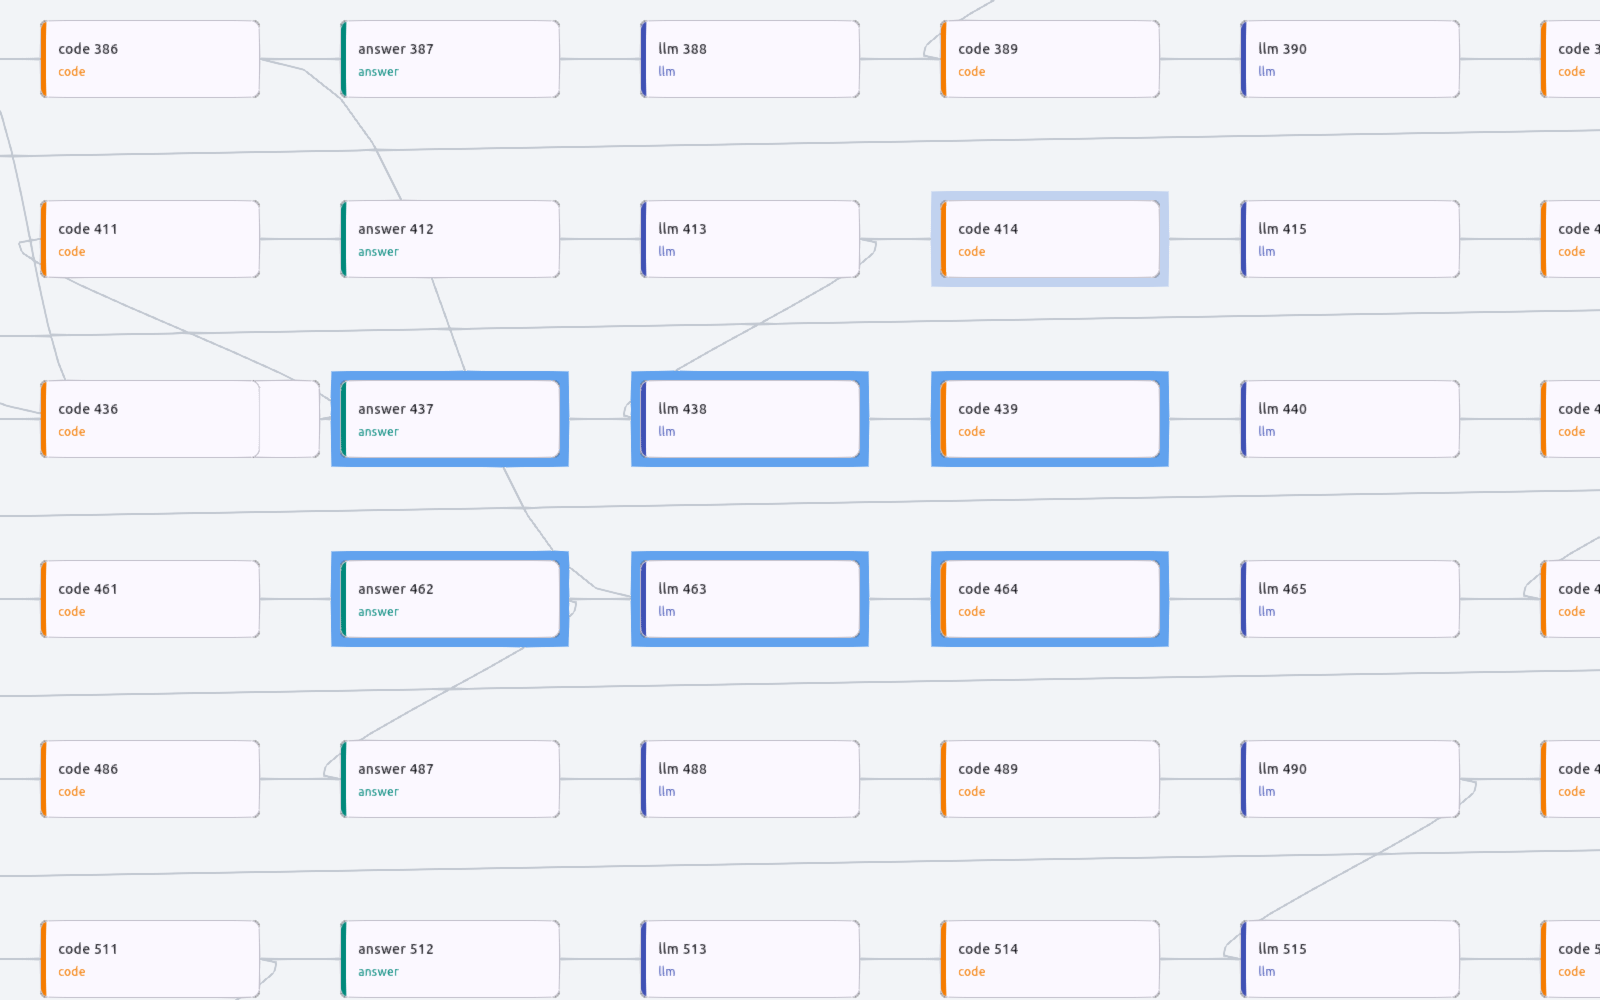
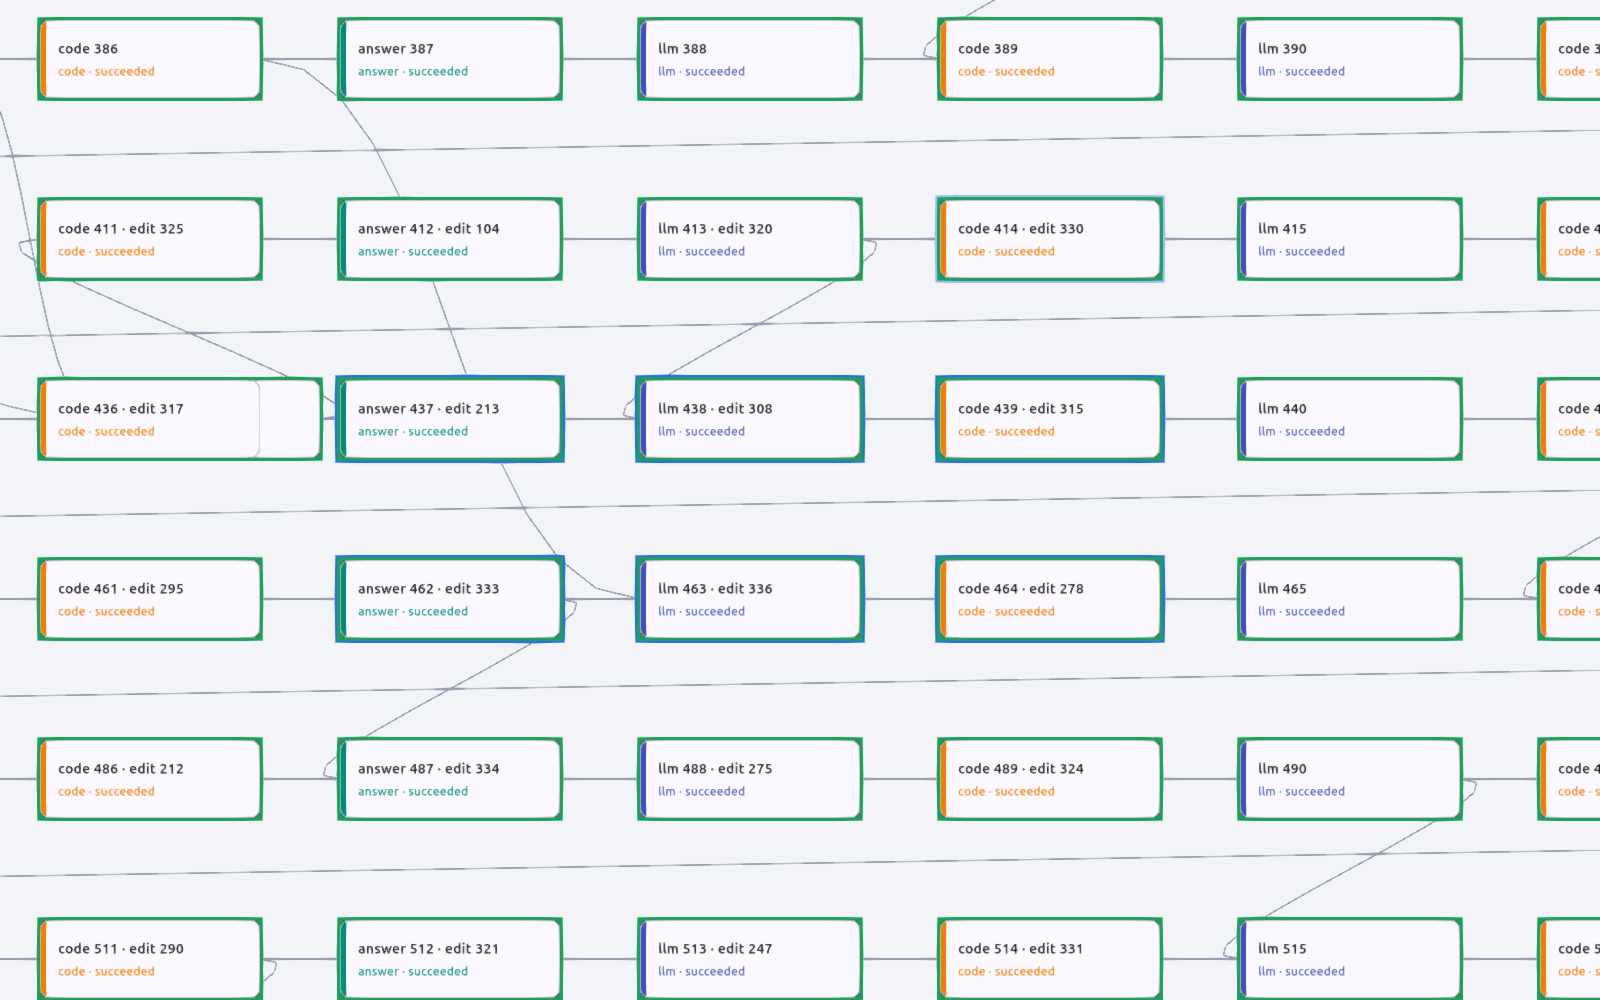
Canvas spike: exact colours, constant edge width, automatic sharpening, type card before overviews
Linear tone mapping with sRGB-converted colours; edges keep 1.5 screen pixels;
on-screen cards are recaptured at the zoom's density at rest without a flash
(1x to 2x: sharp in 197 ms); placeholders show the node type's card until the
card's overview arrives; thinner status and selection frames.

diff --git a/spikes/scene_canvas/lib/main.dart b/spikes/scene_canvas/lib/main.dart
@@ -226,7 +226,7 @@ vm.Vector3 toWorld(Offset p, [double z = 0]) => vm.Vector3(p.dx, -p.dy, -z);
 /// The status frame: a quad a few pixels larger than the card, drawn behind it, so its colour shows as a border.
 Geometry? _statusQuad;
 Geometry statusQuad() => _statusQuad ??= () {
-  const w = kNodeW / 2 + 5, h = kNodeH / 2 + 5;
+  const w = kNodeW / 2 + 3, h = kNodeH / 2 + 3;
   return MeshGeometry.fromArrays(
     positions: Float32List.fromList([w, -h, 0, -w, -h, 0, -w, h, 0, w, h, 0]),
     texCoords: Float32List.fromList([1, 1, 0, 1, 0, 0, 1, 0]),
@@ -237,13 +237,19 @@ Geometry statusQuad() => _statusQuad ??= () {
 /// The selection/hover frame: larger than the status frame, so both show when a running node is selected.
 Geometry? _highlightQuad;
 Geometry highlightQuad() => _highlightQuad ??= () {
-  const w = kNodeW / 2 + 9, h = kNodeH / 2 + 9;
+  const w = kNodeW / 2 + 5, h = kNodeH / 2 + 5;
   return MeshGeometry.fromArrays(
     positions: Float32List.fromList([w, -h, 0, -w, -h, 0, -w, h, 0, w, h, 0]),
     texCoords: Float32List.fromList([1, 1, 0, 1, 0, 0, 1, 0]),
     indices: [0, 1, 3, 3, 1, 2],
   );
 }();
+
+/// A screen colour (sRGB) as the scene's linear colour, so it reaches the screen unchanged (linear tone mapping).
+vm.Vector4 srgb(double r, double g, double b) {
+  double lin(double c) => c <= 0.04045 ? c / 12.92 : pow((c + 0.055) / 1.055, 2.4).toDouble();
+  return vm.Vector4(lin(r), lin(g), lin(b), 1);
+}
 
 const statusColors = {'running': Color(0xFF2F6FED), 'succeeded': Color(0xFF1E9E5A), 'failed': Color(0xFFD93A3A)};
 
@@ -320,7 +326,7 @@ class SceneCanvasState extends State<SceneCanvas> with CanvasHandle {
       final material = UnlitMaterial()
         ..alphaMode = AlphaMode.blend
         ..displayReferred = true
-        ..baseColorFactor = vm.Vector4(0.97, 0.96, 1.0, 1);
+        ..baseColorFactor = srgb(0.97, 0.96, 1.0);
       meshes[t] = InstancedMesh(geometry: cardQuad(), material: material, sortTransparentInstances: false);
       final host = Node();
       late final WidgetComponent c;
@@ -340,6 +346,14 @@ class SceneCanvasState extends State<SceneCanvas> with CanvasHandle {
           material
             ..baseColorTexture = GpuTextureSource(texture)
             ..baseColorFactor = vm.Vector4(1, 1, 1, 1);
+          // Until a card has its own overview, its placeholder shows its type's card.
+          for (var i = 0; i < g.nodes.length; i++) {
+            if (g.nodes[i].type == t && !hasOverview[i]) {
+              placeholders[i]
+                ..baseColorTexture = GpuTextureSource(texture)
+                ..baseColorFactor = vm.Vector4(1, 1, 1, 1);
+            }
+          }
           SchedulerBinding.instance.addPostFrameCallback((_) => scene.remove(host));
         },
       );
@@ -386,10 +400,12 @@ class SceneCanvasState extends State<SceneCanvas> with CanvasHandle {
     super.initState();
     Scene.initializeStaticResources().then((_) {
       if (!mounted) return;
-      edgeMaterial = UnlitMaterial()..baseColorFactor = vm.Vector4(0.58, 0.62, 0.68, 1);
+      edgeMaterial = UnlitMaterial()..baseColorFactor = srgb(0.58, 0.62, 0.68);
       if (kAA.isNotEmpty) scene.antiAliasingMode = AntiAliasingMode.values.byName(kAA);
-      placeholderMaterial = UnlitMaterial()..baseColorFactor = vm.Vector4(0.97, 0.96, 1.0, 1);
-      statusColorValues = {for (final e in statusColors.entries) e.key: vm.Vector4(e.value.r, e.value.g, e.value.b, 1)};
+      // A flat 2D canvas: colours pass through unchanged (no filmic curve on status and selection colours).
+      scene.toneMapping = ToneMappingMode.linear;
+      placeholderMaterial = UnlitMaterial()..baseColorFactor = srgb(0.97, 0.96, 1.0);
+      statusColorValues = {for (final e in statusColors.entries) e.key: srgb(e.value.r, e.value.g, e.value.b)};
       // All cards lie in one plane: no per-frame depth sort of the instances.
       statusMesh = InstancedMesh(
         geometry: statusQuad(),
@@ -424,7 +440,7 @@ class SceneCanvasState extends State<SceneCanvas> with CanvasHandle {
           // Stands in for the card until (and while not) it has a capture; just behind where the capture draws.
           final m = kOverview
               ? (UnlitMaterial()
-                  ..baseColorFactor = vm.Vector4(0.97, 0.96, 1.0, 1)
+                  ..baseColorFactor = srgb(0.97, 0.96, 1.0)
                   ..alphaMode = AlphaMode.blend
                   ..displayReferred = true)
               : placeholderMaterial;
@@ -532,7 +548,32 @@ class SceneCanvasState extends State<SceneCanvas> with CanvasHandle {
     maxAttached = max(maxAttached, ++attached);
   }
 
+  /// Replaces card [i]'s capture with one at [pixelRatio]; the old one stays until the new one has landed.
+  Future<void> _upgrade(int i, double pixelRatio) {
+    final old = comps[i]!, c = _component(i, pixelRatio), done = Completer<void>();
+    replaced[i] = old;
+    void landed() {
+      if (c.controller.texture == null) return;
+      c.controller.removeListener(landed);
+      if (identical(replaced[i], old)) replaced.remove(i);
+      if (old.isAttached) cards[i].removeComponent(old);
+      if (!done.isCompleted) done.complete();
+    }
+
+    c.controller.addListener(landed);
+    cards[i].addComponent(c);
+    comps[i] = c;
+    pixelRatios[i] = pixelRatio;
+    attachedTotal++;
+    return done.future;
+  }
+
+  /// Captures being replaced by [_upgrade], kept until the new one lands.
+  final replaced = <int, WidgetComponent>{};
+
   void _detach(int i) {
+    final old = replaced.remove(i);
+    if (old != null && old.isAttached) cards[i].removeComponent(old);
     attachedSet.remove(i);
     cards[i].removeComponent(comps[i]!);
     comps[i] = null;
@@ -677,6 +718,7 @@ class SceneCanvasState extends State<SceneCanvas> with CanvasHandle {
 
   /// Keeps a WidgetComponent on the cards within half a viewport of the view and drops those beyond a whole one.
   void _residency() {
+    _edgeWidths();
     if (!kCull || !widget.withCards || viewport.isEmpty) return;
     final v = widget.view;
     // With overviews every card already shows real content, so capture work waits until the view rests.
@@ -731,7 +773,18 @@ class SceneCanvasState extends State<SceneCanvas> with CanvasHandle {
         }
       }
     }
-    settled = budget > 0 && releases > 0;
+    // At rest, on-screen cards captured below the zoom's density are recaptured (a few per frame, no flash).
+    var sharpens = 8;
+    if (!viewMoving) {
+      for (final i in [...attachedSet]) {
+        if (sharpens <= 0) break;
+        if (pixelRatios[i] < density && view.overlaps(g.nodes[i].rect)) {
+          _upgrade(i, density);
+          sharpens--;
+        }
+      }
+    }
+    settled = budget > 0 && releases > 0 && sharpens > 0;
     settledAt = now;
     if (initialTarget < 0) {
       initialTarget = first;
@@ -760,11 +813,27 @@ class SceneCanvasState extends State<SceneCanvas> with CanvasHandle {
     final data = _segments(edges);
     if (data.isEmpty || !kEdges) return null;
     // Edges sit behind the cards.
-    return Node(mesh: Mesh(LineSegmentsGeometry(LineSegmentData(positions: data), width: 2), edgeMaterial))
-      ..position = toWorld(Offset.zero, -1);
+    final geometry = LineSegmentsGeometry(LineSegmentData(positions: data), width: edgeWidthPx / widget.view.scale);
+    edgeGeometries.add(geometry);
+    return Node(mesh: Mesh(geometry, edgeMaterial))..position = toWorld(Offset.zero, -1);
+  }
+
+  // Edges keep a constant width on screen: their world width follows the zoom.
+  static const edgeWidthPx = 1.5;
+  final edgeGeometries = <LineSegmentsGeometry>[];
+  double edgeWidthScale = 0;
+
+  void _edgeWidths() {
+    final scale = widget.view.scale;
+    if (scale == edgeWidthScale) return;
+    edgeWidthScale = scale;
+    for (final geometry in edgeGeometries) {
+      geometry.width = edgeWidthPx / scale;
+    }
   }
 
   void _rebuildEdges() {
+    edgeGeometries.clear();
     for (final n in [staticEdges, liveEdges]) {
       if (n != null) scene.remove(n);
     }
@@ -833,7 +902,10 @@ class SceneCanvasState extends State<SceneCanvas> with CanvasHandle {
       _placeNode(i);
     }
     // Only the moving nodes' edges are rebuilt per frame.
-    if (liveEdges != null) scene.remove(liveEdges!);
+    if (liveEdges != null) {
+      scene.remove(liveEdges!);
+      edgeGeometries.remove((liveEdges!.mesh!.primitives.first.geometry));
+    }
     liveEdges = _edgeNode([for (final k in liveEdgeIds) g.edges[k]]);
     if (liveEdges != null) scene.add(liveEdges!);
   }
@@ -865,8 +937,8 @@ class SceneCanvasState extends State<SceneCanvas> with CanvasHandle {
   final selected = <int>{};
   int? hovered;
   late final InstancedMesh highlightMesh;
-  static final selectedColor = vm.Vector4(0.16, 0.42, 0.95, 1);
-  static final hoverColor = vm.Vector4(0.62, 0.74, 0.98, 1);
+  static final selectedColor = srgb(0.16, 0.42, 0.95);
+  static final hoverColor = srgb(0.62, 0.74, 0.98);
 
   void _updateHighlight(int i) {
     final on = selected.contains(i) || hovered == i;
@@ -1125,15 +1197,7 @@ class SceneCanvasState extends State<SceneCanvas> with CanvasHandle {
     final pending = <Future<void>>[];
     for (var i = 0; i < cards.length; i++) {
       if (comps[i] == null || pixelRatios[i] == want || !visible.overlaps(g.nodes[i].rect)) continue;
-      _detach(i);
-      _attach(i, want);
-      final c = comps[i]!, done = Completer<void>();
-      void l() {
-        if (c.controller.texture != null && !done.isCompleted) done.complete();
-      }
-
-      c.controller.addListener(l);
-      pending.add(done.future);
+      pending.add(_upgrade(i, want));
     }
     await Future.wait(pending);
   }
@@ -1142,7 +1206,18 @@ class SceneCanvasState extends State<SceneCanvas> with CanvasHandle {
   int get liveWidgets => attached;
 
   @override
+  /// On-screen cards with a capture below the density the zoom needs (blurry).
+  int get unsharpOnScreen {
+    final view = visibleRect(widget.view, viewport), want = densityForZoom();
+    return [
+      for (final i in attachedSet)
+        if (view.overlaps(g.nodes[i].rect) && pixelRatios[i] < want) i,
+    ].length;
+  }
+
+  @override
   Map<String, Object> get stats => {
+    'unsharpOnScreen': unsharpOnScreen,
     'a11yBuilds': a11yBuilds,
     'a11yNodes': a11y.value.$1.length + (a11y.value.$2 == null ? 0 : 1),
     'maxAttached': maxAttached,
@@ -1800,6 +1875,23 @@ class _SpikeAppState extends State<SpikeApp> with SingleTickerProviderStateMixin
     if (kPhases.contains('zoomback')) await _zoomBack();
     if (kPhases.contains('run')) await _runWorkflow();
     if (kPhases.contains('input')) await _inputTest();
+    if (kPhases.contains('autosharp')) {
+      // Zoom in by a jump and let the view rest: on-screen cards must end up captured at the new density.
+      view
+        ..center = const Offset(3700, 3000)
+        ..scale = 1;
+      await Future<void>.delayed(const Duration(milliseconds: 1500));
+      view.scale = 2;
+      final sw1 = Stopwatch()..start();
+      var unsharp = -1;
+      while (sw1.elapsedMilliseconds < 3000) {
+        await Future<void>.delayed(const Duration(milliseconds: 20));
+        unsharp = canvas.stats['unsharpOnScreen'] as int? ?? -1;
+        if (unsharp == 0) break;
+      }
+      stdout.writeln('AUTOSHARP ${jsonEncode({'unsharpOnScreen': unsharp, 'ms': sw1.elapsedMilliseconds})}');
+      await _shot('autosharp');
+    }
     // Pan: a 600 px/s diagonal sweep and back.
     await _phase('pan', 4, (t) {
       final s = sin(t * pi / 2);

diff --git a/spikes/scene_canvas/RESULTS.md b/spikes/scene_canvas/RESULTS.md
@@ -198,6 +198,19 @@ it off (pan 121 / 118 fps, zoom 119 / 120, edits 116 / 117, drag 116 / 115; `res
 
 ![after the input test](results/input-after.png)
 
+## Finish: colour, edge width, sharpening, first look
+
+* Linear tone mapping (a flat 2D canvas needs no filmic curve), and colours converted from sRGB, so status and
+  selection colours reach the screen exactly (the success frame measures 30, 158, 90 = #1E9E5A).
+* Edges keep 1.5 screen pixels at every zoom (their world width follows the zoom).
+* Until a card's own overview exists, its placeholder shows its node type's card, never a plain block.
+* At rest, on-screen cards captured below the density the zoom needs are recaptured, 8 per frame, the old capture
+  kept until the new one lands (no flash): after a jump from 1x to 2x all on-screen cards are sharp within 197 ms
+  (`PHASES=autosharp`).
+* Status frame 3 px, selection 5 px (to be matched to Dify's look when aligning the UI).
+
+![2x after automatic sharpening](results/autosharp-2x.png)
+
 ## Findings (before culling, all cards resident)
 
 1. **All three canvases hold about 120 FPS at 1x up to 2000 nodes.** The app's current canvas (rebuilding the
@@ -225,8 +238,7 @@ it off (pan 121 / 118 fps, zoom 119 / 120, edits 116 / 117, drag 116 / 115; `res
 ## Recommendation
 
 Cards in Flutter Scene with per-component culling: they hold up at 2000 nodes, at 2x, and zoomed out to the whole
-graph, where widget cards (and the hybrid) break down. Cards, edges and future shader or 3D effects share one renderer. Open items for it:
-placeholder look before the overviews arrive, edge width in screen pixels, the web build. Final 120 Hz acceptance on a
+graph, where widget cards (and the hybrid) break down. Cards, edges and future shader or 3D effects share one renderer. Open item for it: the web build. Final 120 Hz acceptance on a
 real 120 Hz screen.
 
 Not covered yet: pointer and keyboard input on scene cards (`WidgetInput.automatic`), text input inside cards, the
